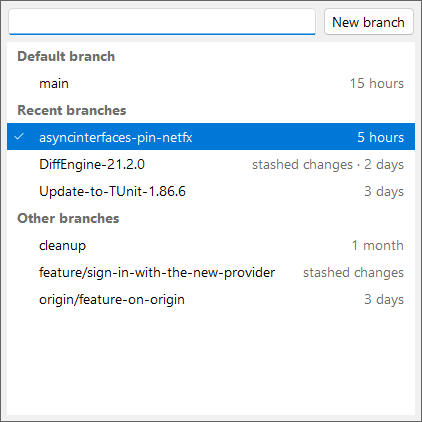
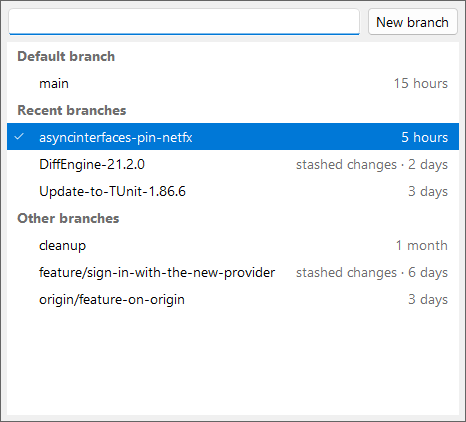
The branch drop-up widens for long names, once the branches are found, to as wide as the longest name and how long ago need, from as wide as it opens to half as wide again, and the screen's width at most: measured over every branch, not only those the filter leaves, so it keeps its width while typin

diff --git a/src/Lode/Git/BranchPicker.cs b/src/Lode/Git/BranchPicker.cs
@@ -23,6 +23,15 @@ sealed class BranchPicker : Form
     List<Row> shown = [];
     Font? headingFont;
     bool closing;
+    RowTip nameTip;
+
+    // How wide it opens, scaled for the screen, before it widens for long names: see FitWidth.
+    int? openWidth;
+
+    /// <summary>
+    /// How much wider than it opens it can grow for long names: half as wide again.
+    /// </summary>
+    internal const double WidestGrowth = 1.5;
 
     // On screen, what opened it: the status bar's branch. It opens above that, as a drop-down on
     // a bar at the bottom of a window does. Empty, it is left where it was put.
@@ -155,6 +164,7 @@ sealed class BranchPicker : Form
                 ShowMenu(list.IndexFromPoint(args.Location), args.Location);
             }
         };
+        nameTip = new(list, NameTipAt);
 
         var gap = new Panel
         {
@@ -225,6 +235,7 @@ sealed class BranchPicker : Form
 
         listing = found;
         Refill();
+        FitWidth();
     }
 
     protected override void OnLoad(EventArgs args)
@@ -232,11 +243,88 @@ sealed class BranchPicker : Form
         base.OnLoad(args);
         list.ItemHeight = Math.Max(list.Font.Height + LogicalToDeviceUnits(8), list.ItemHeight);
         headingFont = new(list.Font, FontStyle.Bold);
+        openWidth = Width;
 
         // Placed once scaled for the screen it is on, so its bottom is where the branch's top is.
         if (!opener.IsEmpty)
         {
             Location = Place(opener, Size, Screen.FromRectangle(opener).WorkingArea);
+        }
+
+        FitWidth();
+    }
+
+    /// <summary>
+    /// Widens it for the longest of the branches, all of them, not only those the filter leaves,
+    /// so it keeps its width as names are typed: as wide as that one's name and note need, from
+    /// as wide as it opens to <see cref="WidestGrowth"/> times that, and the screen's width at
+    /// most. Past that, a name is cut short, as GitHub Desktop cuts one, its note left whole.
+    /// Once the branches are found and it is scaled for the screen, whichever is last.
+    /// </summary>
+    void FitWidth()
+    {
+        if (listing == null ||
+            openWidth is not { } open)
+        {
+            return;
+        }
+
+        var tick = LogicalToDeviceUnits(22);
+        var gap = LogicalToDeviceUnits(12);
+        var now = Time.GetUtcNow();
+        using var graphics = list.CreateGraphics();
+        var notes = new Dictionary<string, int>(StringComparer.Ordinal);
+        var longest = 0;
+        foreach (var branch in AllBranches(listing))
+        {
+            var row = Measure(graphics, branch.Name);
+            var note = Note(branch, now);
+            if (note.Length > 0)
+            {
+                if (!notes.TryGetValue(note, out var noteWidth))
+                {
+                    noteWidth = Measure(graphics, note);
+                    notes[note] = noteWidth;
+                }
+
+                row += gap + noteWidth;
+            }
+
+            longest = Math.Max(longest, row);
+        }
+
+        var needed = RowMargin * 2 + tick + longest;
+        var widest = (int) (open * WidestGrowth);
+        Rectangle? area = null;
+        if (!opener.IsEmpty)
+        {
+            area = Screen.FromRectangle(opener).WorkingArea;
+            widest = Math.Min(widest, area.Value.Width);
+        }
+
+        var width = Math.Clamp(Width + needed - list.ClientSize.Width, open, Math.Max(open, widest));
+        if (width == Width)
+        {
+            return;
+        }
+
+        Width = width;
+        if (area is { } onScreen)
+        {
+            Location = Place(opener, Size, onScreen);
+        }
+    }
+
+    static IEnumerable<GitBranches.Branch> AllBranches(GitBranches.Listing listing)
+    {
+        if (listing.Default != null)
+        {
+            yield return listing.Default;
+        }
+
+        foreach (var branch in listing.Recent.Concat(listing.Other))
+        {
+            yield return branch;
         }
     }
 
@@ -274,6 +362,7 @@ sealed class BranchPicker : Form
         if (disposing)
         {
             headingFont?.Dispose();
+            nameTip.Dispose();
         }
 
         base.Dispose(disposing);
@@ -603,6 +692,77 @@ sealed class BranchPicker : Form
         return ago;
     }
 
+    const TextFormatFlags flags = TextFormatFlags.VerticalCenter | TextFormatFlags.NoPrefix | TextFormatFlags.SingleLine;
+
+    // Each side of a row, between the list's edge and what is drawn in it.
+    int RowMargin => LogicalToDeviceUnits(6);
+
+    int Measure(IDeviceContext graphics, string text) =>
+        TextRenderer.MeasureText(graphics, text, list.Font, Size.Empty, flags).Width;
+
+    /// <summary>
+    /// Where a branch's row draws its name and its note, and which note: the note whole, at the
+    /// right, as GitHub Desktop has how long ago, and the name in the room it leaves, cut short
+    /// with an ellipsis where it hasn't enough, <paramref name="NameCut"/>, when hovering it
+    /// shows it whole. Short of room for the name beside the whole note, how long ago goes
+    /// before that changes are stashed. A note wider than half the row is cut short too.
+    /// </summary>
+    internal readonly record struct RowLayout(Rectangle Name, bool NameCut, Rectangle Note, string NoteText);
+
+    internal RowLayout LayoutRow(IDeviceContext graphics, Rectangle row, GitBranches.Branch branch)
+    {
+        var bounds = Rectangle.Inflate(row, -RowMargin, 0);
+
+        // A column for the tick the branch checked out has, as a menu has for a ticked entry.
+        var tick = LogicalToDeviceUnits(22);
+        var gap = LogicalToDeviceUnits(12);
+        var space = bounds.Width - tick;
+        var nameWidth = Measure(graphics, branch.Name);
+        var note = Note(branch, Time.GetUtcNow());
+        if (branch.Stashed &&
+            nameWidth + gap + Measure(graphics, note) > space)
+        {
+            note = stashedNote;
+        }
+
+        var nameRight = bounds.Right;
+        var noteWidth = 0;
+        if (note.Length > 0)
+        {
+            noteWidth = Math.Min(Measure(graphics, note), Math.Max(0, space / 2));
+            nameRight -= noteWidth + gap;
+        }
+
+        var name = Rectangle.FromLTRB(bounds.Left + tick, bounds.Top, Math.Max(bounds.Left + tick, nameRight), bounds.Bottom);
+        var noteBounds = Rectangle.FromLTRB(bounds.Right - noteWidth, bounds.Top, bounds.Right, bounds.Bottom);
+        return new(name, nameWidth > name.Width, noteBounds, note);
+    }
+
+    /// <summary>
+    /// The whole name of the branch whose name is cut short under <paramref name="point"/>, as
+    /// GitHub Desktop shows it over the name. Null elsewhere, and over a name shown whole.
+    /// </summary>
+    internal string? NameTipAt(Point point)
+    {
+        var index = list.IndexFromPoint(point);
+        if (index < 0 ||
+            index >= shown.Count ||
+            shown[index].Branch is not { } branch)
+        {
+            return null;
+        }
+
+        using var graphics = list.CreateGraphics();
+        var layout = LayoutRow(graphics, list.GetItemRectangle(index), branch);
+        if (layout.NameCut &&
+            layout.Name.Contains(point))
+        {
+            return branch.Name;
+        }
+
+        return null;
+    }
+
     void DrawRow(object? sender, DrawItemEventArgs args)
     {
         if (args.Index < 0 ||
@@ -612,8 +772,7 @@ sealed class BranchPicker : Form
         }
 
         var row = shown[args.Index];
-        var bounds = Rectangle.Inflate(args.Bounds, -LogicalToDeviceUnits(6), 0);
-        const TextFormatFlags flags = TextFormatFlags.VerticalCenter | TextFormatFlags.NoPrefix | TextFormatFlags.SingleLine;
+        var bounds = Rectangle.Inflate(args.Bounds, -RowMargin, 0);
         if (row.Branch is not { } branch)
         {
             // A heading or a message: never highlighted, as it can't be picked.
@@ -640,8 +799,6 @@ sealed class BranchPicker : Form
             dimmed = ExplorerStyle.HighlightText;
         }
 
-        // A column for the tick the branch checked out has, as a menu has for a ticked entry.
-        var tick = LogicalToDeviceUnits(22);
         if (IsCurrent(branch))
         {
             var size = LogicalToDeviceUnits(12);
@@ -649,32 +806,12 @@ sealed class BranchPicker : Form
             args.Graphics.DrawImage(glyph, bounds.Left, bounds.Top + (bounds.Height - size) / 2, size, size);
         }
 
-        // The name comes first: the note has what room it leaves. Short of room, how long ago
-        // goes before that changes are stashed, then the note is cut short, then left off.
-        var space = bounds.Width - tick;
-        var gap = LogicalToDeviceUnits(12);
-        var room = space - Math.Min(Measure(branch.Name), space) - gap;
-        var note = Note(branch, Time.GetUtcNow());
-        if (branch.Stashed &&
-            Measure(note) > room)
+        var layout = LayoutRow(args.Graphics, args.Bounds, branch);
+        if (layout.NoteText.Length > 0)
         {
-            note = stashedNote;
+            TextRenderer.DrawText(args.Graphics, layout.NoteText, list.Font, layout.Note, dimmed, flags | TextFormatFlags.Right | TextFormatFlags.EndEllipsis);
         }
 
-        var noteWidth = 0;
-        if (note.Length > 0 &&
-            room >= LogicalToDeviceUnits(24))
-        {
-            noteWidth = Math.Min(Measure(note), room);
-            var noteBounds = Rectangle.FromLTRB(bounds.Right - noteWidth, bounds.Top, bounds.Right, bounds.Bottom);
-            TextRenderer.DrawText(args.Graphics, note, list.Font, noteBounds, dimmed, flags | TextFormatFlags.Right | TextFormatFlags.EndEllipsis);
-            noteWidth += gap;
-        }
-
-        var name = Rectangle.FromLTRB(bounds.Left + tick, bounds.Top, bounds.Right - noteWidth, bounds.Bottom);
-        TextRenderer.DrawText(args.Graphics, branch.Name, list.Font, name, color, flags | TextFormatFlags.Left | TextFormatFlags.EndEllipsis);
-
-        int Measure(string text) =>
-            TextRenderer.MeasureText(args.Graphics, text, list.Font, Size.Empty, flags).Width;
+        TextRenderer.DrawText(args.Graphics, branch.Name, list.Font, layout.Name, color, flags | TextFormatFlags.Left | TextFormatFlags.EndEllipsis);
     }
 }

diff --git a/src/Lode.Tests/Git/BranchPickerTests.cs b/src/Lode.Tests/Git/BranchPickerTests.cs
@@ -23,9 +23,22 @@ public class BranchPickerTests
         ],
         [
             Branch("cleanup", 24 * 40),
-            // Long enough that the note gives way to it.
+            // Long enough that it widens, for its note to show whole beside it.
             Branch("feature/sign-in-with-the-new-provider", 24 * 6, stashed: true),
             Branch("origin/feature-on-origin", 24 * 3, remote: true)
+        ]);
+
+    const string longName = "origin/fix/null-default-variable-in-non-null-position-and-every-case-that-comes-after-it";
+
+    // A name too long for it even half as wide again, so cut short, beside one that fits.
+    internal static readonly GitBranches.Listing LongNames = new(
+        "main",
+        Branch("main", 15),
+        [],
+        [
+            Branch("short", 2),
+            Branch(longName, 24 * 90, remote: true),
+            Branch("origin/fix/per-schema-builtin-scalars", 24 * 60, remote: true)
         ]);
 
     // A row as the tests show it: a heading in capitals, a branch indented under it, the one
@@ -126,6 +139,54 @@ public class BranchPickerTests
         await Assert.That(BranchPicker.Place(new(900, 1010, 150, 22), size, area)).IsEqualTo(new(900, 590));
         await Assert.That(BranchPicker.Place(new(1800, 1010, 100, 22), size, area)).IsEqualTo(new(1540, 590));
         await Assert.That(BranchPicker.Place(new(10, 100, 100, 22), size, area)).IsEqualTo(new(10, 122));
+    }
+
+    // Long names widen it, to half as wide again at most. Past that a name is cut short, its
+    // note left whole beside it, and hovering the name shows it whole, as GitHub Desktop has it.
+    // Names that fit leave it as wide as it opens.
+    [Test]
+    public async Task LongNamesWidenItThenAreCutShort()
+    {
+        var shortNames = LongNames with
+        {
+            Other = [LongNames.Other[0]]
+        };
+        var longNames = LongNames;
+        using var fits = new BranchPicker
+        {
+            Location = new(-20000, -20000)
+        };
+        fits.Show();
+        var opened = fits.Width;
+        await fits.Fill(Task.FromResult(shortNames));
+        using var picker = new BranchPicker
+        {
+            Location = new(-20000, -20000)
+        };
+        picker.Show();
+        await picker.Fill(Task.FromResult(longNames));
+
+        await Assert.That(fits.Width).IsEqualTo(opened);
+        await Assert.That(picker.Width).IsEqualTo((int) (opened * BranchPicker.WidestGrowth));
+
+        var list = picker.Controls.OfType<ListBox>().Single();
+        using var graphics = list.CreateGraphics();
+        var rows = picker.Rows.ToList();
+        var longIndex = rows.FindIndex(_ => _.Branch?.Name == longName);
+        var shortIndex = rows.FindIndex(_ => _.Branch?.Name == "short");
+        var cut = picker.LayoutRow(graphics, list.GetItemRectangle(longIndex), rows[longIndex].Branch!);
+        var whole = picker.LayoutRow(graphics, list.GetItemRectangle(shortIndex), rows[shortIndex].Branch!);
+        var flags = TextFormatFlags.VerticalCenter | TextFormatFlags.NoPrefix | TextFormatFlags.SingleLine;
+
+        await Assert.That((cut.NameCut, whole.NameCut)).IsEqualTo((true, false));
+        await Assert.That(cut.Note.Width).IsEqualTo(TextRenderer.MeasureText(graphics, cut.NoteText, list.Font, Size.Empty, flags).Width);
+        await Assert.That(cut.Name.Right).IsLessThan(cut.Note.Left);
+        await Assert.That(picker.NameTipAt(Middle(cut.Name))).IsEqualTo(longName);
+        await Assert.That(picker.NameTipAt(Middle(cut.Note))).IsNull();
+        await Assert.That(picker.NameTipAt(Middle(whole.Name))).IsNull();
+
+        static Point Middle(Rectangle bounds) =>
+            new(bounds.Left + bounds.Width / 2, bounds.Top + bounds.Height / 2);
     }
 
     static async Task<BranchPicker> Open(string search = "")

diff --git a/src/Lode.Tests/Menus/MenuTests.cs b/src/Lode.Tests/Menus/MenuTests.cs
@@ -228,6 +228,30 @@ public class MenuTests
         }
     }
 
+    // A name too long for it even widened, cut short as GitHub Desktop cuts one, how long ago
+    // whole beside it.
+    [Test]
+    public async Task BranchPickerLongNames()
+    {
+        BranchPicker.Time = new Clock(new(2026, 11, 21, 12, 0, 0, TimeSpan.Zero));
+        try
+        {
+            using var picker = new BranchPicker
+            {
+                Location = new(-20000, -20000)
+            };
+            picker.Show();
+            await picker.Fill(Task.FromResult(BranchPickerTests.LongNames));
+            Application.DoEvents();
+
+            await Verify(picker);
+        }
+        finally
+        {
+            BranchPicker.Time = TimeProvider.System;
+        }
+    }
+
     static async Task<FolderView> Open(string path, Settings settings)
     {
         var view = new FolderView(settings, noPlaces);
